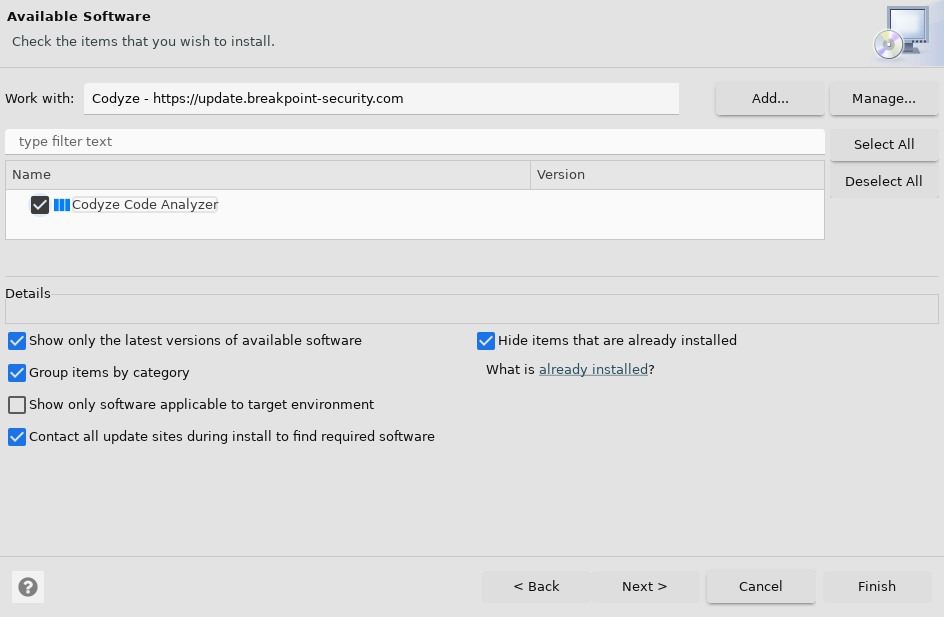
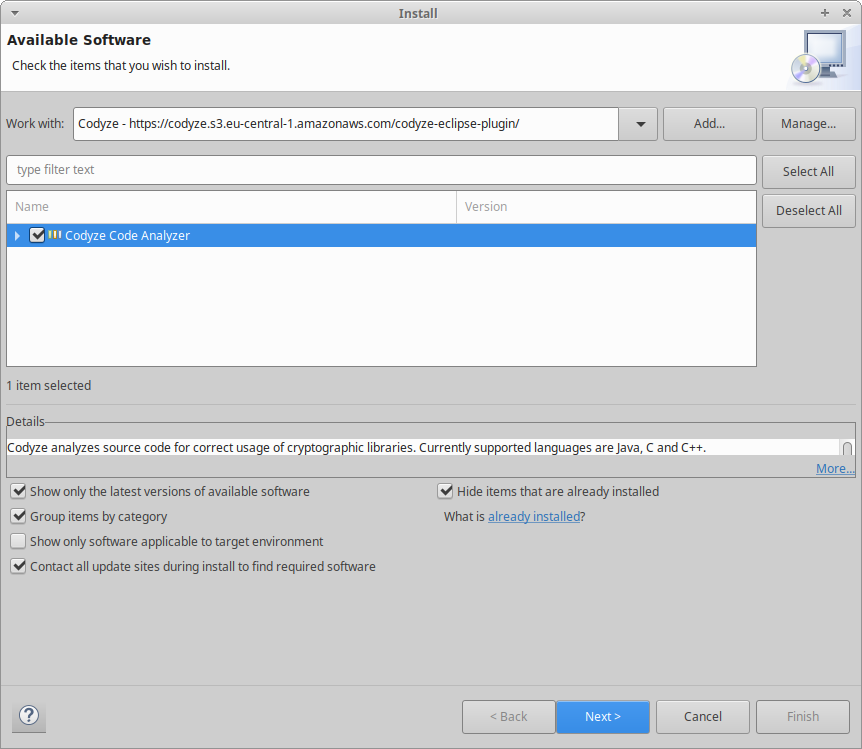
Update documentation with new Eclipse update site

diff --git a/docs/content/en/docs/Getting Started/installation.md b/docs/content/en/docs/Getting Started/installation.md
@@ -26,11 +26,11 @@ Download and Install
 
 ## Integration in Eclipse
 
-Codyze can be installed from an Eclipse update site. It has been tested against Eclipse 2019-04 and later.
+Codyze can be installed from an Eclipse update site. It has been tested against Eclipse 2019-12 and later.
 
 1. In Eclipse, click on `Help`->`Install New Software...`
 2. Click `Add...` to add a new update site
-3. Choose a name and enter the location [https://update.breakpoint-security.com](https://update.breakpoint-security.com) (note this is an Eclipse update site URL and not suited to open with a web browser)
+3. Choose a name and enter the location [https://codyze.s3.eu-central-1.amazonaws.com/codyze-eclipse-plugin/](https://codyze.s3.eu-central-1.amazonaws.com/codyze-eclipse-plugin/) (note this is an Eclipse update site URL and not suited to open with a web browser)
 
 <img src="/img/eclipse-update-site.png" 
     alt="Adding Eclipse Update Site"
@@ -60,7 +60,7 @@ Once installed, configure the Eclipse plugin to use the local LSP server:
 
 1. Download and install the `LSP Support` plugin. Restart IntelliJ.
 2. Goto `Settings` -> `Language Server Protocol` -> `Server Definitions`
-3. Add a new server definition of type `Executable` for extension `java` and navigate to your local `/opt/codyze/codyze-1.0.0/bin/codyze` script. 
+3. Add a new server definition of type `Executable` for extension `java` and navigate to your local `codyze-<version>/bin/codyze` script. 
  
 <img src="/img/lsp-settings-intellij.png" 
 alt="IntelliJ LSP Settings" 
